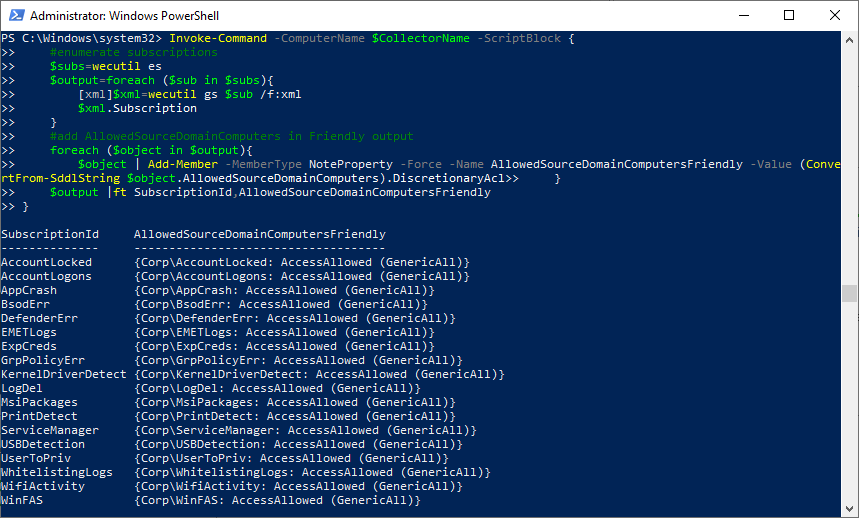
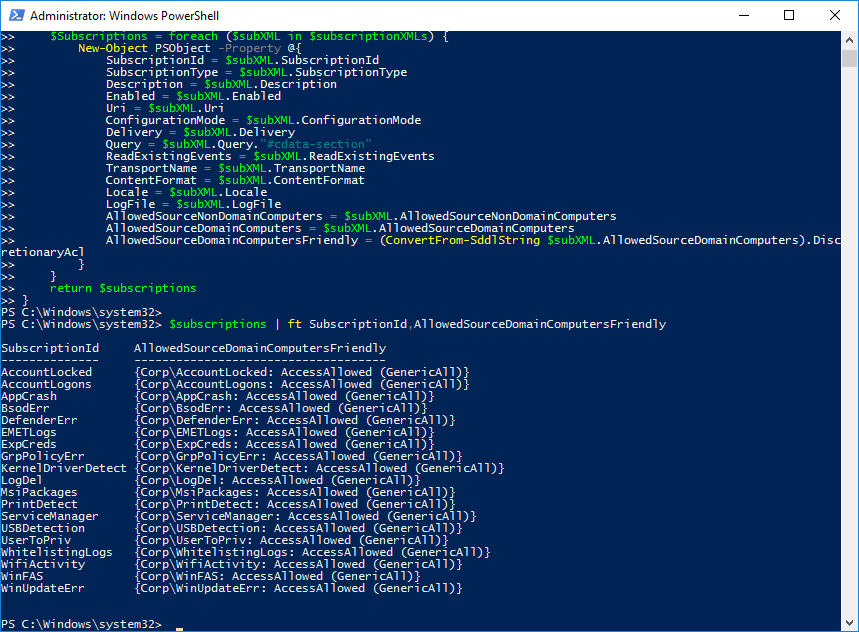
modified subscriptions validation script
Former-commit-id: 3faec762ae056aee82b389baedc9f4f5fcde6ef4

Changed region(s): [[0.0, 0.0, 1.0, 1.0]]

diff --git a/Scenarios/Windows Event Forwarding/readme.md b/Scenarios/Windows Event Forwarding/readme.md
@@ -159,19 +159,37 @@ Following script will help display all subscriptions and it's ACLs
 ```PowerShell
 $CollectorName="Collector"
 
-Invoke-Command -ComputerName $CollectorName -ScriptBlock {
+$subscriptions=Invoke-Command -ComputerName $CollectorName -ScriptBlock {
     #enumerate subscriptions
     $subs=wecutil es
-    $output=foreach ($sub in $subs){
+    $subscriptionXMLs= foreach ($sub in $subs){
         [xml]$xml=wecutil gs $sub /f:xml
-        $xml.Subscription
+        $xml.subscription
     }
-    #add AllowedSourceDomainComputers in Friendly output
-    foreach ($object in $output){
-        $object | Add-Member -MemberType NoteProperty -Force -Name AllowedSourceDomainComputersFriendly -Value (ConvertFrom-SddlString $object.AllowedSourceDomainComputers).DiscretionaryAcl
+    $Subscriptions = foreach ($subXML in $subscriptionXMLs) {
+        New-Object PSObject -Property @{
+            SubscriptionId = $subXML.SubscriptionId
+            SubscriptionType = $subXML.SubscriptionType
+            Description = $subXML.Description
+            Enabled = $subXML.Enabled
+            Uri = $subXML.Uri
+            ConfigurationMode = $subXML.ConfigurationMode
+            Delivery = $subXML.Delivery
+            Query = $subXML.Query."#cdata-section"
+            ReadExistingEvents = $subXML.ReadExistingEvents
+            TransportName = $subXML.TransportName
+            ContentFormat = $subXML.ContentFormat
+            Locale = $subXML.Locale
+            LogFile = $subXML.LogFile
+            AllowedSourceNonDomainComputers = $subXML.AllowedSourceNonDomainComputers
+            AllowedSourceDomainComputers = $subXML.AllowedSourceDomainComputers
+            AllowedSourceDomainComputersFriendly = (ConvertFrom-SddlString $subXML.AllowedSourceDomainComputers).DiscretionaryAcl
+        }
     }
-    $output |ft SubscriptionId,AllowedSourceDomainComputersFriendly
+    return $subscriptions
 }
+
+$subscriptions | ft SubscriptionId,AllowedSourceDomainComputersFriendly
  
 ```
 
